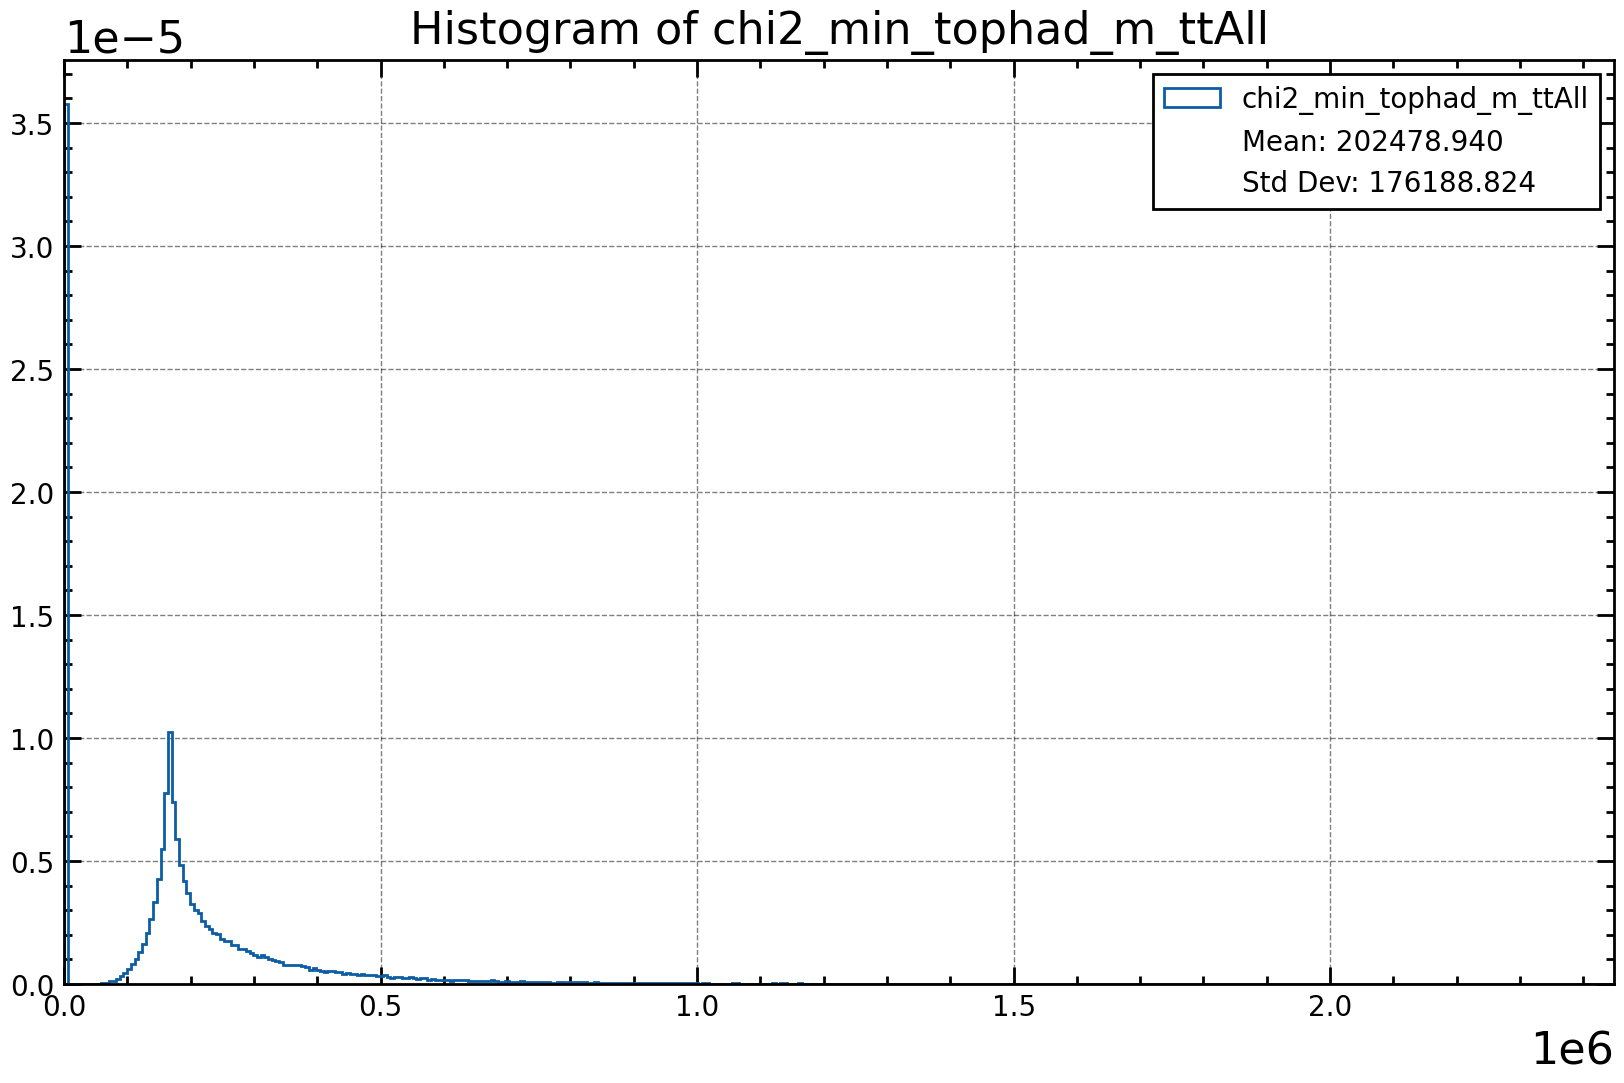
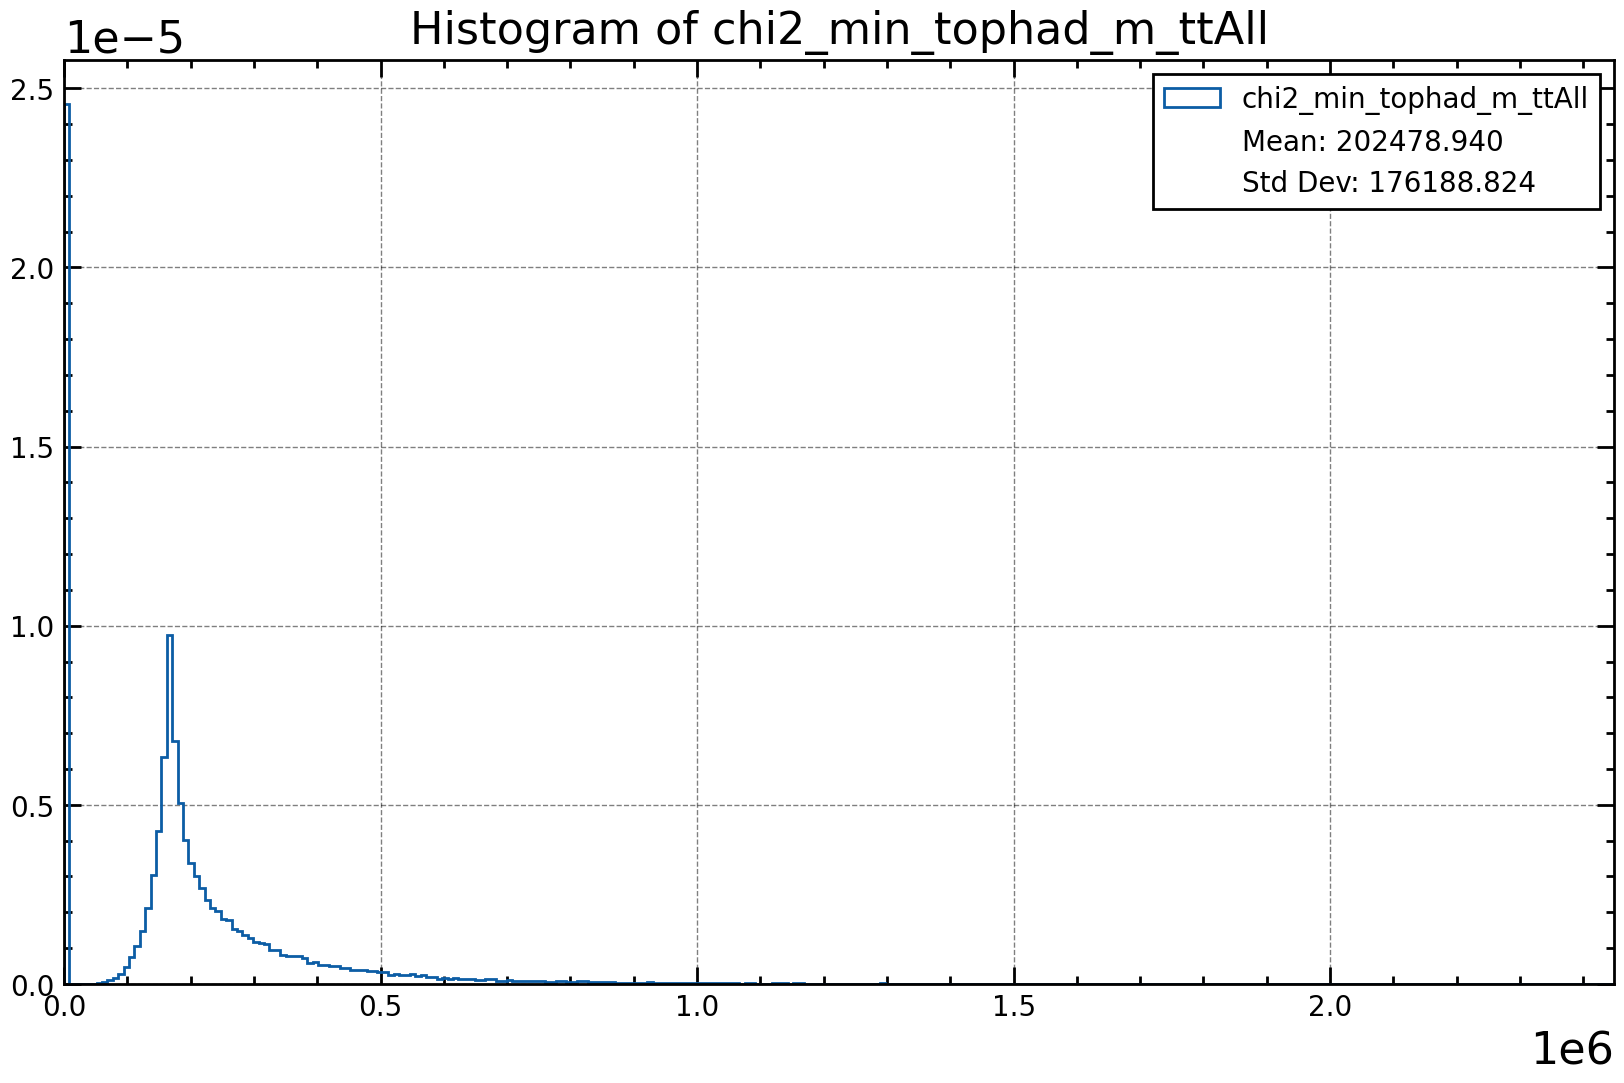
made some corrections

diff --git a/build_histograms.py b/build_histograms.py
@@ -1,8 +1,8 @@
+import os
 import numpy as np
 import pandas as pd
 from matplotlib import pyplot as plt
 import scienceplots
-import os
 from config import Config
 
 
@@ -24,20 +24,21 @@ def histogram(data, name):
     x_min = branch_data.min()
     x_max = branch_data.max()
     mean_value = branch_data.mean()
-    bins_count = np.histogram_bin_edges(branch_data, bins='auto') # auto, fd, doane, scott, stone, rice, sturges, sqrt
     standard_deviation = branch_data.std()
+    bins_count = np.histogram_bin_edges(branch_data, bins='sqrt') # auto, fd, scott, sqrt
 
     plt.style.use(['science', 'notebook', 'grid'])
     plt.figure(figsize=(10, 6))
-    plt.hist(branch_data, density=True, histtype='step', bins=bins_count, range=(x_min, x_max), label=name)
-    plt.plot([], [], ' ', label=f'Mean: {mean_value:.3f}')
-    plt.plot([], [], ' ', label=f'Std Dev: {standard_deviation:.3f}')
     plt.title(f'Histogram of {name}')
     plt.tick_params(axis='both', labelsize=10)
     #plt.xlabel('')
-    #plt.xticks(np.linspace(x_range[0], x_range[1], num=bins_count+1))
+    #plt.xticks(np.linspace(x_min, x_max, num=50))
     plt.xlim(x_min, x_max)
-    plt.ylim(0)
+    #plt.ylabel('')
+    #plt.ylim(0)
+    plt.hist(branch_data, density=True, histtype='step', bins=bins_count, range=(x_min, x_max), label=name)
+    plt.plot([], [], ' ', label=f'Mean: {mean_value:.3f}')
+    plt.plot([], [], ' ', label=f'Std Dev: {standard_deviation:.3f}')
     plt.legend(loc='upper right', fontsize=10, fancybox=False, edgecolor='black')
     plt.savefig(f'{Config.FOLDER_NAME}/{name}.png', dpi=200)
 
